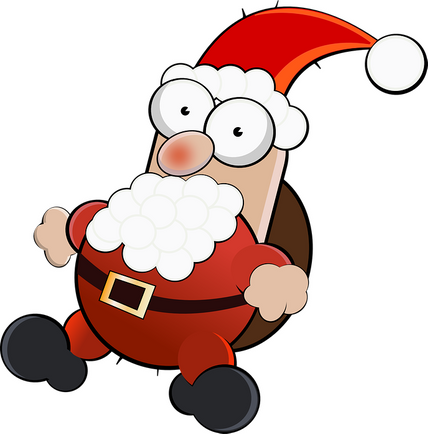
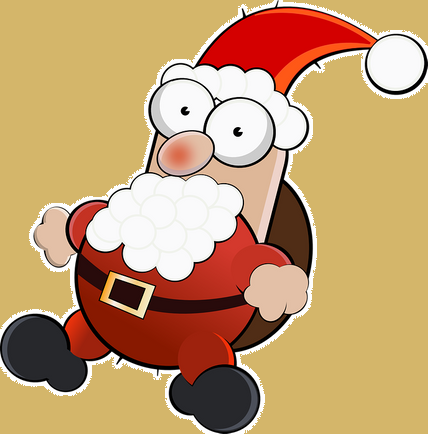
muistipelin css leikkimistä

diff --git a/muistipeli/stylesVille.css b/muistipeli/stylesVille.css
@@ -1,0 +1,127 @@
+body {
+  margin: 0;
+  padding: 0;
+  background: #AA8939;
+  font-size: 14px;
+}
+
+header {
+  position: fixed;
+  width: 100vw;
+  z-index: 1;
+  text-align: left;
+  padding-bottom: 5px;
+  display: grid;
+  grid-template-columns: 1fr;
+  background: linear-gradient(to bottom, #553D00, #AA8939);
+  border-radius: 5px;
+}
+
+header h1 {
+  color: #FFDDAA;
+  margin: 15px 20px;
+}
+
+header h2 {
+  margin: 0 20px;
+}
+
+nav {
+text-align: center;
+margin-top: -55px;
+}
+
+a {
+  font-size: 1.8em;
+  margin-left: 100px;
+  margin-right: 100px;
+  padding: 5px;
+  border: 2px solid black;
+  border-radius: 10px 5px;
+  text-decoration: none;
+  font-weight: bolder;
+  color: #553D00;
+  background: lightgreen;
+}
+main {
+  padding-top: 75px;
+}
+
+#muistipeli_header {
+  text-align: center;
+  padding: 25px;
+}
+
+#muistipeli_id {
+margin-top: -25px;
+}
+
+#ruudukko44 {
+  width: 33%;
+  margin: auto;
+  justify-content: center;
+  display: grid;
+  grid-template-columns: 1fr 1fr 1fr 1fr;
+  grid-gap: 15px;
+  padding: 25px 20px;
+  border-radius: 15px;
+}
+
+#ruudukko46 {
+  width: 33vw;
+  margin: auto;
+  justify-content: center;
+  display: grid;
+  grid-template-columns: 1fr 1fr 1fr 1fr 1fr 1fr;
+  grid-gap: 15px;
+  padding: 25px 20px;
+  border-radius: 15px;
+}
+
+#ruudukko46:active {
+background-color: white;
+}
+
+#ruudukko66 {
+  width: 33vw;
+  margin: auto;
+  justify-content: center;
+  display: grid;
+  grid-template-columns: 1fr 1fr 1fr 1fr 1fr 1fr;
+  grid-gap: 15px;
+  padding: 25px 20px;
+  border-radius: 15px;
+}
+
+img {
+  opacity: 0.8;
+  border-radius: 15px;
+  margin: auto;
+  width: 100px;
+}
+
+
+
+
+
+
+
+footer {
+  position: absolute;
+  bottom: 20px;
+  width: 100vw;
+}
+
+#tekijat_div {
+margin: auto;
+text-align: center;
+
+width: 100vw;
+}
+
+#tekijat_dl {
+  display: grid;
+  margin: auto;
+  width: 50vw;
+  grid-template-columns: 1fr 1fr 1fr 1fr 1fr 1fr;
+}

diff --git a/muistipeli/script.js b/muistipeli/script.js
@@ -199,7 +199,6 @@ function onkoSamat() {
     cardsArray46.sort(() => 0.5 - Math.random());
     kortitMatch = [];
     kaynnista()
-
   }
   // 66 ruudukolle
   if (korttienMäärä === 36 && kortitMatch.length === 18) {
@@ -216,7 +215,7 @@ function onkoSamat() {
 }
 
 
-// Lasurin funktio, joka laskee 0:sta ylöspäin sekunnin välein
+// Laskurin funktio, joka laskee 0:sta ylöspäin sekunnin välein
 function timer() {
   // Intervalli täytyy nollata joka kerta laskuria kutsuessa
     clearInterval(timerVar);
@@ -231,7 +230,7 @@ function timer() {
     timerVar = setInterval(function() {
     sekunnitYhteensa++;
     tunnit = Math.floor(sekunnitYhteensa / 3600);
-    minuutit = Math.floor((sekunnitYhteensa - tunnit * 3600)/60);
+    minuutit = Math.floor((sekunnitYhteensa - tunnit * 3600) / 60);
     sekunnit = sekunnitYhteensa - (tunnit * 3600 + minuutit * 60);
     if(tunnit < 10) {
     tunnit = "0" + tunnit;

diff --git a/muistipeli/pelisivu.html b/muistipeli/pelisivu.html
@@ -1,7 +1,7 @@
 <!DOCTYPE html>
 <html lang="en" dir="ltr">
   <head>
-    <link rel="stylesheet" href="styles.css">
+    <link rel="stylesheet" href="stylesVille.css">
     <meta charset="utf-8">
     <meta name="viewport" content="width=device-width, initial-scale=1.0">
     <title>Muistipeli</title>
@@ -39,14 +39,13 @@
       <!-- Muistipelille div-->
       <div class="muistipeli" id="muistipeli_id">
 
-        <p id="timer"></p>
         <div class="ruudukko" id="ruudukko44">
         </div>
         <div class="ruudukko" id="ruudukko46">
         </div>
         <div class="ruudukko" id="ruudukko66">
         </div>
-        <button type="button" name="button" onclick="resetTimer()">Nollaa</button>
+        <p id="timer"></p>
         <p id="voitot"></p>
       </div>
 
